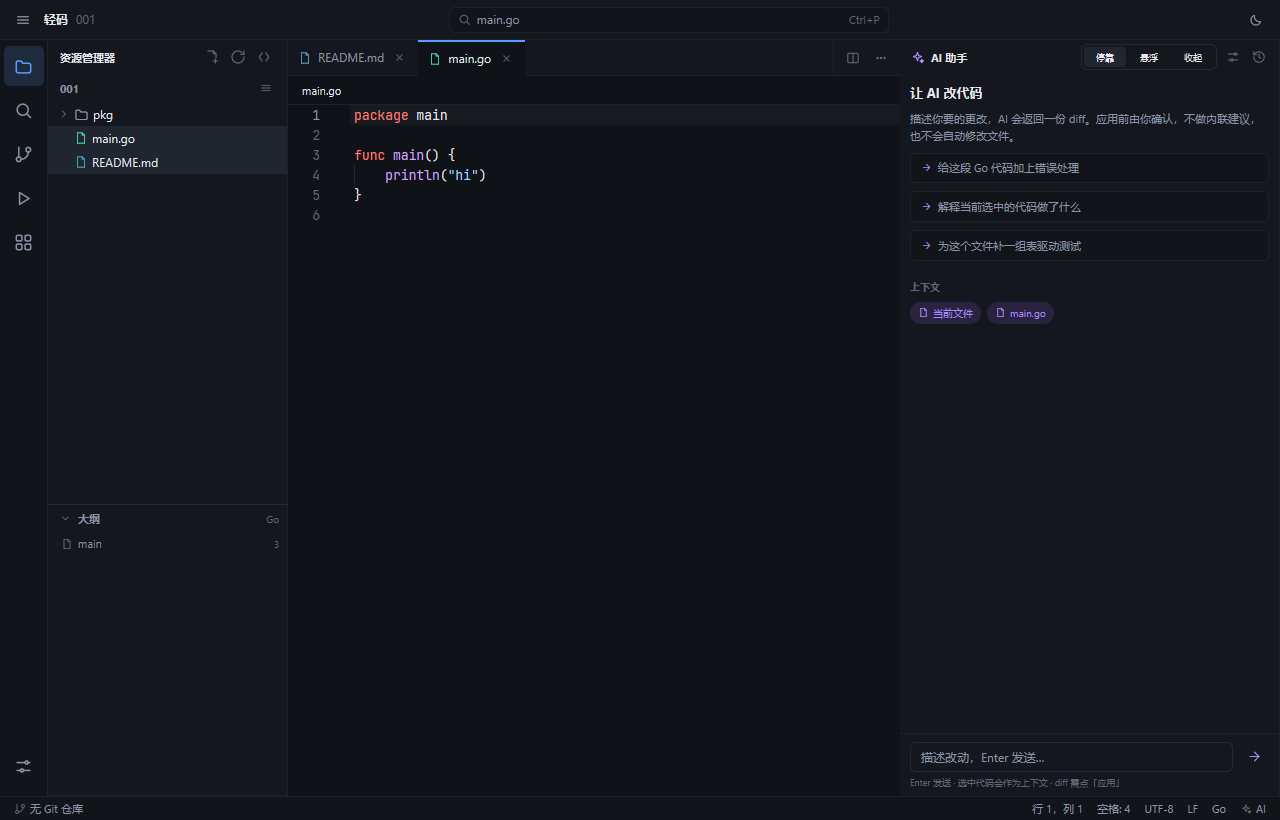
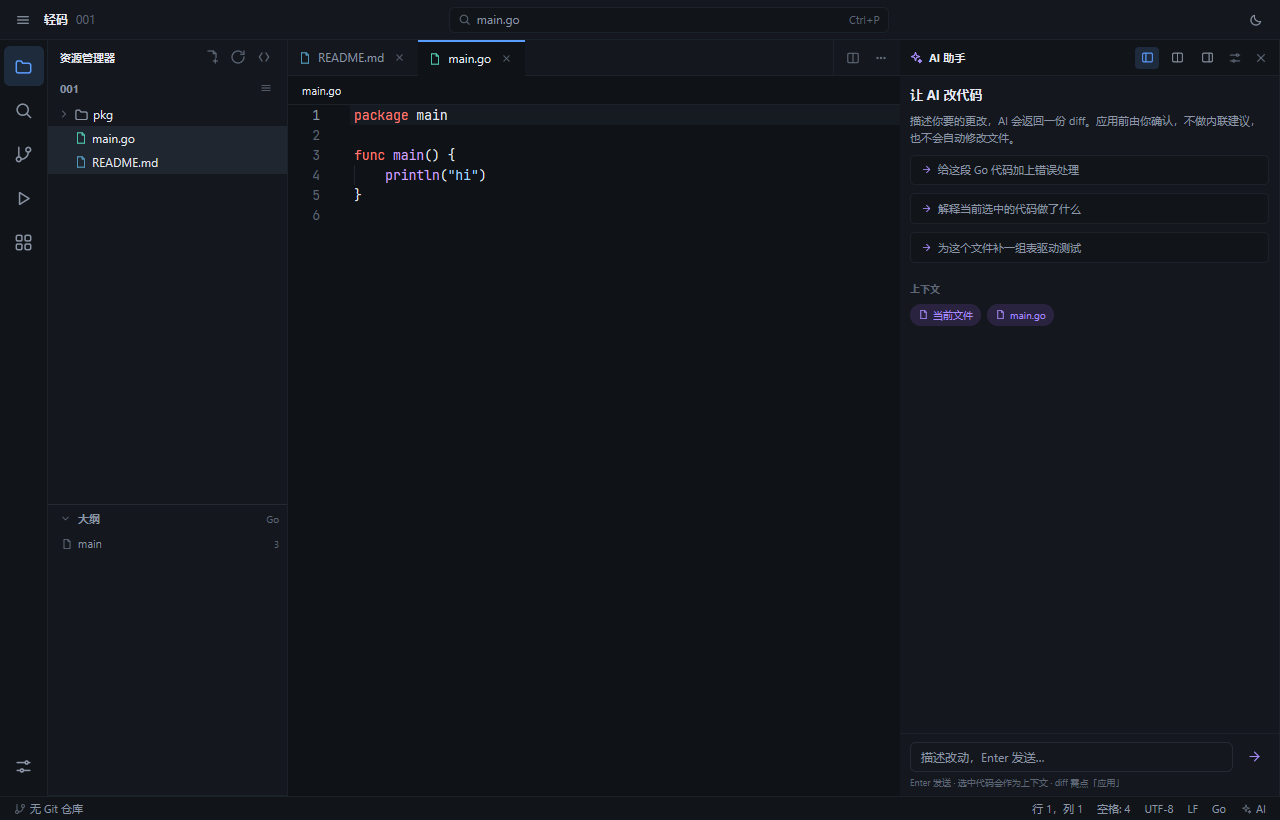
AI 悬浮窗：带标题头的可拖弹窗，修复头部按钮
- 悬浮面板顶部改为 36 px 标题头：左侧固定抓手拖动，右侧模式图标（停靠/悬浮/收起）、设置、关闭
- 拖动只在标题左侧 170 px 内生效，按钮点击不再被拖动处理器吞掉；卡片抓手同理
- 新增 Float 头部按钮测试；重出截图与基线（共 95 个测试）

diff --git a/lightcode/internal/app/ai.go b/lightcode/internal/app/ai.go
@@ -34,7 +34,7 @@ func (a *App) aiFloat(c *ui.Context) {
 			Radius(10).Background(theme.Panel).Border(1, theme.Border).
 			Shadow(0, 16, 40, 0, ui.RGBA(0, 0, 0, 0.55)).
 			Cursor(ui.CursorGrab)
-		card.HandleInput(a.dragAI(0))
+		card.HandleInput(a.dragAIHeader(0))
 		card.Children(func() {
 			a.aiHeader(c)
 			a.aiBody(c)
@@ -43,29 +43,48 @@ func (a *App) aiFloat(c *ui.Context) {
 	})
 }
 
-// aiHeader is the title row: the drag grip, the modes, the settings and
-// the collapse.
+// aiHeader is the floating panel's window-like header: a fixed drag area
+// at the left (it moves the panel), and the controls at the right, which
+// the drag area does not cover.
 func (a *App) aiHeader(c *ui.Context) {
-	ui.Row(c).Height(theme.PanelHeadH).PaddingX(10).Gap(6).AlignItems(ui.Center).Children(func() {
-		grip := ui.Row(c).Gap(6).AlignItems(ui.Center).Cursor(ui.CursorGrab).
-			Tooltip("拖动可移动 AI 面板")
-		// Only the title drags: the buttons to its right take their own
-		// presses, which a root handler would swallow.
-		grip.HandleInput(a.dragAI(0))
-		grip.Children(func() {
-			ui.Icon(c, icons.Sparkles).FontSize(15).TextColor(theme.AI)
-			ui.Text(c, "AI 助手").FontSize(11).Bold().TextColor(theme.Text)
-			if a.AI.Streaming {
-				ui.Text(c, "生成中").FontSize(9).TextColor(theme.AI).Padding(1, 5).
-					Radius(3).Background(theme.AISoft)
+	ui.Row(c).Height(36).Background(theme.PanelDeep).PaddingX(8).Gap(6).
+		AlignItems(ui.Center).BorderWidth(0, 0, 1, 0).BorderColor(theme.BorderSoft).
+		Children(func() {
+			grip := ui.Row(c).Width(110).Shrink(0).Gap(6).AlignItems(ui.Center).
+				Cursor(ui.CursorGrab).Tooltip("拖动标题移动 AI 面板")
+
+			grip.Children(func() {
+				ui.Icon(c, icons.Sparkles).FontSize(15).TextColor(theme.AI)
+				ui.Text(c, "AI 助手").FontSize(11).Bold().TextColor(theme.Text)
+				if a.AI.Streaming {
+					ui.Text(c, "生成中").FontSize(9).TextColor(theme.AI).Padding(1, 5).
+						Radius(3).Background(theme.AISoft)
+				}
+			})
+			ui.Box(c).Grow(1)
+			modes := []struct {
+				icon  *ui.SVG
+				label string
+			}{
+				{icons.PanelLeft, "停靠"},
+				{icons.Split, "悬浮"},
+				{icons.PanelRight, "收起"},
 			}
+			for i, m := range modes {
+				color := theme.Muted
+				if a.AI.Mode == i {
+					color = theme.Accent
+				}
+				btn := ui.ButtonBase(c).Size(24, 22).Radius(4).Label(m.label).Tooltip(m.label)
+				btn.Children(func() { ui.Icon(c, m.icon).FontSize(13).TextColor(color) })
+				if a.AI.Mode == i {
+					btn.Background(theme.AccentSoft)
+				}
+				btn.OnClick(func() { a.SetAIMode(i) })
+			}
+			iconButton(c, icons.Settings, "AI 设置", 20, a.OpenAISettings)
+			iconButton(c, icons.Close, "关闭 AI 面板", 20, func() { a.SetAIMode(AIRail) })
 		})
-		ui.Box(c).Grow(1)
-		ui.Segmented(c, &a.AI.Mode, "停靠", "悬浮", "收起").FontSize(9).
-			OnChange(func() { a.SaveState() })
-		iconButton(c, icons.Settings, "AI 设置", 20, a.OpenAISettings)
-		iconButton(c, icons.History, "新对话", 20, a.NewAIChat)
-	})
 }
 
 // aiBody is the conversation: the intro with suggestions, or the turns
@@ -488,4 +507,16 @@ func (a *App) moveAI(target int, dx, dy float32) (float32, float32) {
 	nx, ny := a.clampAI(ox+dx, oy+dy, w, h)
 	*x, *y = nx, ny
 	return nx - ox, ny - oy
+}
+
+// dragAIHeader starts a drag only from the header's grip, leaving the
+// controls to the right to their own clicks.
+func (a *App) dragAIHeader(target int) func(ui.InputEvent) bool {
+	inner := a.dragAI(target)
+	return func(ev ui.InputEvent) bool {
+		if ev.Kind == ui.InputPointerDown && (ev.X > 170 || ev.Y > 36) {
+			return false
+		}
+		return inner(ev)
+	}
 }

diff --git a/lightcode/internal/app/m5_test.go b/lightcode/internal/app/m5_test.go
@@ -225,3 +225,50 @@ func TestAIDragFloatingAndRail(t *testing.T) {
 		t.Errorf("restored rail = %.0f, %.0f", a2.Prefs.AIRailX, a2.Prefs.AIRailY)
 	}
 }
+
+// TestAIFloatHeaderButtons clicks the floating panel's header controls,
+// which the drag area must leave alone.
+func TestAIFloatHeaderButtons(t *testing.T) {
+	a, _ := testWorkspace(t)
+	a.AI.Mode = AIFloat
+	tt := ui.NewTester(a.View, 1280, 820)
+	tt.Frame()
+	// Collapse first: a settings dialog would eat the next click while
+	// it closes.
+	if err := tt.Click("收起"); err != nil {
+		t.Fatal(err)
+	}
+	if a.AI.Mode != AIRail {
+		t.Errorf("the 收起 control did not collapse; mode %d", a.AI.Mode)
+	}
+	a.SetAIMode(AIDock)
+	tt.Frame()
+	if err := tt.Click("AI 设置"); err != nil {
+		t.Fatal(err)
+	}
+	if !a.AI.SettingsOpen {
+		t.Errorf("the settings button did not open the dialog")
+	}
+}
+
+// TestAIFloatHeaderFloat closes and opens from the floating header too.
+func TestAIFloatHeaderFloat(t *testing.T) {
+	a, _ := testWorkspace(t)
+	a.AI.Mode = AIFloat
+	tt := ui.NewTester(a.View, 1280, 820)
+	tt.Frame()
+	if err := tt.Click("关闭 AI 面板"); err != nil {
+		t.Fatal(err)
+	}
+	if a.AI.Mode != AIRail {
+		t.Errorf("close did not collapse; mode %d", a.AI.Mode)
+	}
+	a.SetAIMode(AIFloat)
+	tt.Frame()
+	if err := tt.Click("AI 设置"); err != nil {
+		t.Fatal(err)
+	}
+	if !a.AI.SettingsOpen {
+		t.Errorf("settings did not open from the floating header")
+	}
+}

diff --git a/lightcode/README.md b/lightcode/README.md
@@ -37,7 +37,7 @@ go run ./cmd/lightcode <folder> [file]
 - 编码：UTF-8、UTF-8 BOM、GBK 自动识别并原样写回；二进制文件拒绝打开。
 - 编辑：`ui/editor` 的语法高亮、多光标、折叠、查找替换、跳转到行、Git 改动条（未接 Git 时为空白）。
 - 快速打开 `Ctrl+P` 与命令面板 `Ctrl+Shift+P`（模糊匹配、↑↓ 选择、Enter 执行）。
-- AI 助手：兼容 OpenAI 的流式客户端（SSE、系统代理、可取消/重试），Key 存系统凭据库（或 `OPENAI_API_KEY`），Base URL/模型在设置弹窗里改；停靠 380 / 悬浮 380×640 / 收起为右侧浮动的 48×172 卡片三态（不占布局、没有空列，悬停可预览上一轮回答），模式随会话恢复。回答用 `ui/markdown` 流式渲染，并逐帧揭示（打字机式，即使服务端一次性返回也分段显示），其中 git diff 会被解析成 diff 卡片，点「应用」才写入当前缓冲区（保持未保存），「忽略」可丢弃，也可以展开看差异。上下文是当前文件或选区（上限 8000 字符）。
+- AI 助手：兼容 OpenAI 的流式客户端（SSE、系统代理、可取消/重试），Key 存系统凭据库（或 `OPENAI_API_KEY`），Base URL/模型在设置弹窗里改；停靠 380 / 悬浮 380×640 / 收起为右侧浮动的 48×172 卡片三态（不占布局、没有空列，悬停可预览上一轮回答）；悬浮面板有独立的标题头（左侧抓手可拖动，右侧三个模式按钮、设置与关闭），模式随会话恢复。回答用 `ui/markdown` 流式渲染，并逐帧揭示（打字机式，即使服务端一次性返回也分段显示），其中 git diff 会被解析成 diff 卡片，点「应用」才写入当前缓冲区（保持未保存），「忽略」可丢弃，也可以展开看差异。上下文是当前文件或选区（上限 8000 字符）。
 - 视图：`Ctrl+B` 侧栏；`Ctrl+Shift+E/F/G/X` 切换侧栏视图；`Ctrl+=` / `Ctrl+-` / `Ctrl+0` 缩放；`Ctrl+\` 拆分/关闭分屏（`ui.SplitPercent`，拖动分隔条；两列共享同一 Document 的 undo）；AI 停靠 380 宽，收起后是右侧浮动的 48×172 卡片（不占布局、不留白条），点卡片展开；**悬浮面板与收起卡片都能拖动**（位置写入 `settings.json`），允许浮在代码上方。
 - 命令面板可滚动（`ui.Scroll`，↑↓ 选择会自动滚到可见处），`打开文件夹…` 等靠后的命令都能找到。
 - 主题：深色 / 浅色两套板（标题栏右上角的☀/☾按钮、设置页「外观」、或 `Ctrl+Shift+T` 切换），编辑器和 diff/AI 卡片一起换色；选择存在 `settings.json` 的 `theme` 字段，窗口菜单与对话框通过主循环跟随系统外观设置。
@@ -89,6 +89,7 @@ go build ./... && go vet ./... && go test ./...
 ## 里程碑
 
 M0 空壳（已完成）→ M1 会话恢复/外部改动/预览标签/分屏/缩放/编码/IME（已完成）→ M2 工作区（索引、搜索、大纲、文件操作、watcher，已完成）→ M3 Git（status/SCM/diff/逐 hunk 暂存/提交/历史，核心完成；冲突与 remote 待做）→ M4 AI 面板（流式客户端、三态、diff 卡片、确认应用，已完成）→ M5 终端/设置/能力面板（已完成；i18n 未做）→ M6 打磨发布。
+
 
 
 

diff --git a/docs/dev-plan.md b/docs/dev-plan.md
@@ -300,3 +300,4 @@ token（深色）：`--bg #0f1216`、`--panel #14181e`、`--ac #5b9cff`、`--ai 
 
 
 
+
